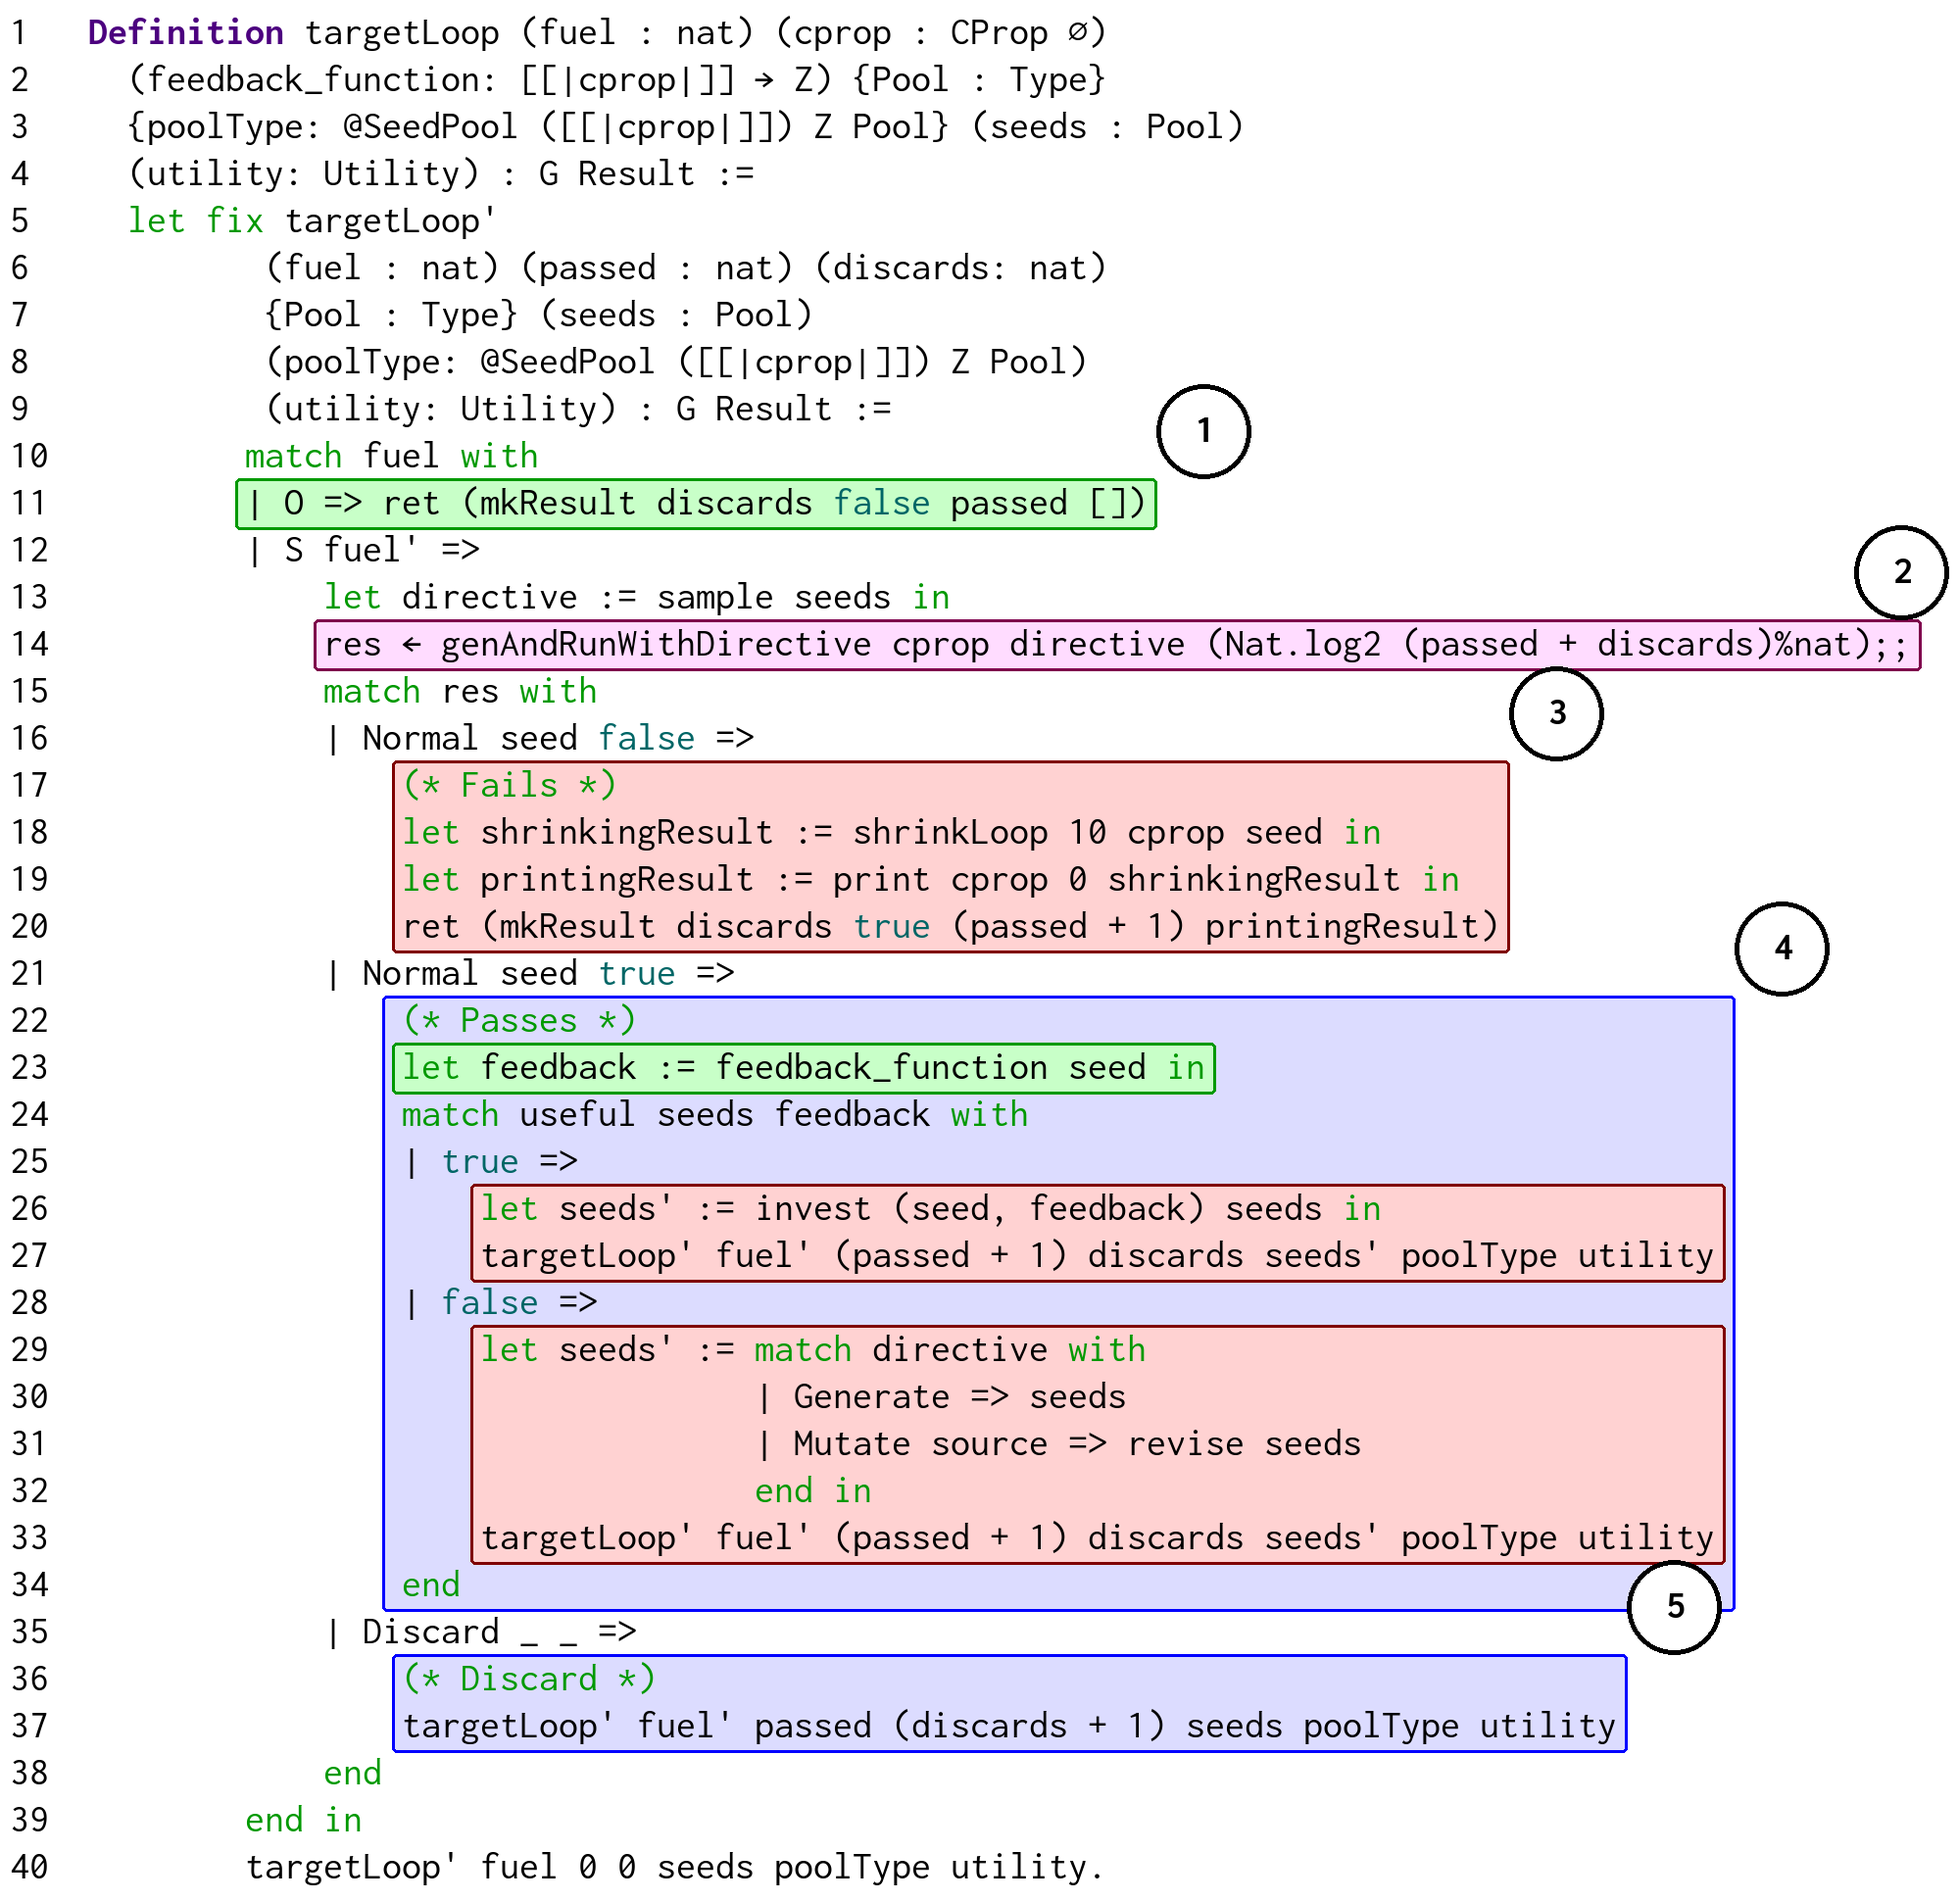
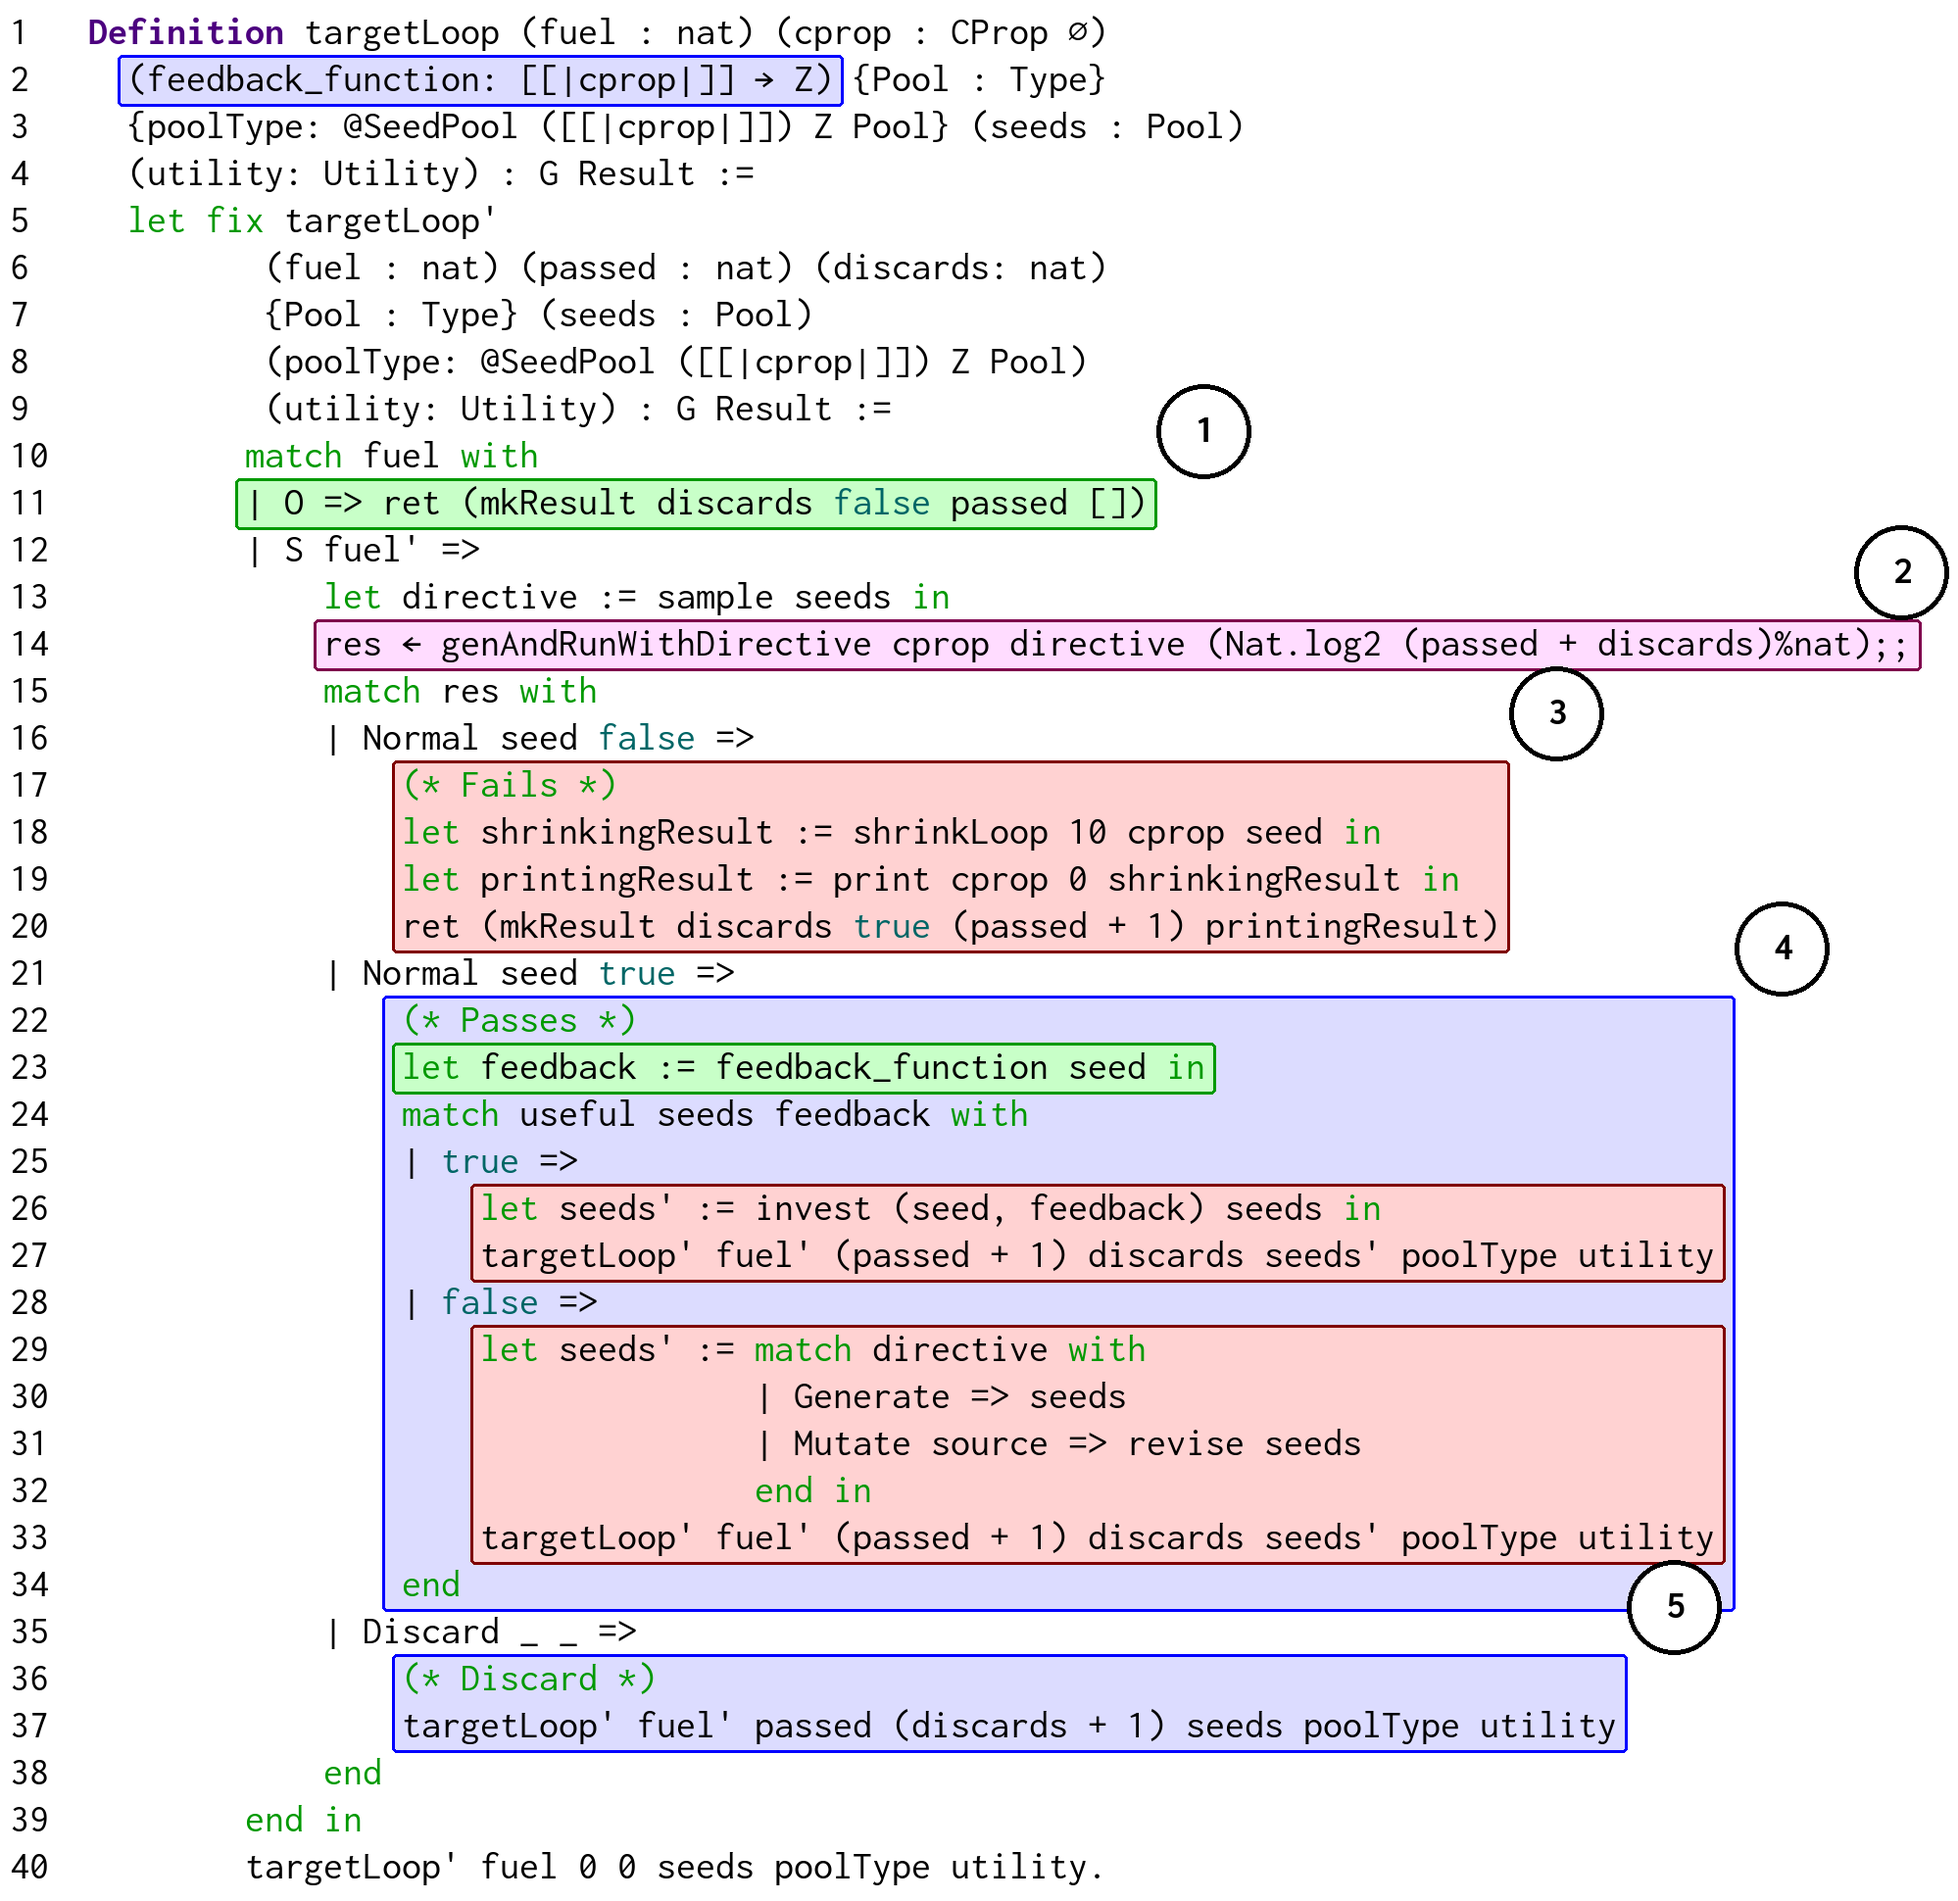
add inline marker based on search

Changed region(s): [[0.0621, 0.0309, 0.4344, 0.0619]]

diff --git a/coderender.py b/coderender.py
@@ -124,7 +124,7 @@
 # This is a renderer for Coq code.
 
 from PIL import Image, ImageDraw, ImageFont
-
+import itertools
 
 vernacs = [
     "Section",
@@ -248,6 +248,9 @@ colors = {
     "dkred": (int(0.5 * 255), 0, 0),
     "ltred": (255, 210, 210),
     "bgred": (255, 210, 210),
+    "dkorange": (int(0.6 * 255), int(0.3 * 255), 0),
+    "ltorange": (255, 240, 220),
+    "bgorange": (255, 240, 220),
     "black": (0, 0, 0),
     "white": (255, 255, 255),
 }
@@ -320,17 +323,31 @@ def render_coq(code, font_size, line_numbers, markers, output_file):
     elements = []
 
     def marker_to_element(marker):
-        return {
-            "type": "line_based_rounded_rectangle",
-            "lines": marker["lines"],
-            "fill": colors["bg" + marker["color"]],
-            "outline": colors["dk" + marker["color"]],
-            "children": list(map(marker_to_element, marker.get("children", []))),
-            "label": marker.get("label"),
-            "width": 3,
-            "radius": 5,
-            "z": 0,
-        }
+        if "lines" in marker:
+            return {
+                "type": "line_based_rounded_rectangle",
+                "lines": marker["lines"],
+                "fill": colors["bg" + marker["color"]],
+                "outline": colors["dk" + marker["color"]],
+                "children": list(map(marker_to_element, marker.get("children", []))),
+                "label": marker.get("label"),
+                "width": 3,
+                "radius": 5,
+                "z": 0,
+            }
+        elif "search" in marker:
+            for literal, ligature in ligatures.items():
+                marker["search"] = marker["search"].replace(literal, ligature)
+            return {
+                "type": "text_based_rounded_rectangle",
+                "search": marker["search"],
+                "mode": marker["mode"],
+                "fill": colors["bg" + marker["color"]],
+                "outline": colors["dk" + marker["color"]],
+                "width": 3,
+                "radius": 5,
+                "z": 0,
+            }
 
     for marker in markers:
         elements.append(marker_to_element(marker))
@@ -407,6 +424,7 @@ def render_coq(code, font_size, line_numbers, markers, output_file):
                     "font": font,
                     "text": token,
                     "line": line,
+                    "number": len(elements),
                     "z": 1,
                 }
             )
@@ -548,6 +566,44 @@ def render_coq(code, font_size, line_numbers, markers, output_file):
                         width=element["width"],
                         radius=element["radius"],
                     )
+            case "text_based_rounded_rectangle":
+                # Find the sequence of tokens that match the search string
+                tokens = tokenize(code)
+                search_tokens = tokenize(element["search"])
+                matches = []
+                print(search_tokens)
+                current_line = 1
+                for i in range(len(tokens) - len(search_tokens) + 1):
+                    if tokens[i] == "\n":
+                        current_line += 1
+                    if tokens[i : i + len(search_tokens)] == search_tokens:
+                        matches.append((i, i + len(search_tokens), current_line))
+                
+                if element["mode"] == "first":
+                    matches = matches[:1]
+                print(matches)
+                for match in matches:
+                    line = match[2]
+                    just_line_tokens = list(
+                        filter(lambda x: x["type"] == "text" and x["line"] is not None, elements)
+                    )
+                    first_token = just_line_tokens[match[0] - line  + 1]
+                    last_token = just_line_tokens[match[1] - line + 1]
+
+                    left = first_token["x"]
+                    right = last_token["x"] + last_token["width"]
+                    print(left, right)
+                    top = LINE_HEIGHT * line - LINE_HEIGHT * 5 // 6
+                    bottom = LINE_HEIGHT * line + LINE_HEIGHT // 4
+                    print(top, bottom)
+                    draw.rounded_rectangle(
+                        (left - 10, top, right - 10, bottom),
+                        fill=element["fill"],
+                        outline=element["outline"],
+                        width=element["width"],
+                        radius=element["radius"],
+                    )
+                    
 
     img.save(output_file)
 
@@ -650,6 +706,7 @@ markers = [
         "label": "4"
     },
     {"lines": (36, 37), "color": "blue", "label": "5"},
+    {"search": "(feedback_function: ⟦⦗cprop⦘⟧ -> Z)", "color": "blue", "mode": "first"},
 ]
 
 render_coq(code, 40, True, markers, "targetLoop.png")
